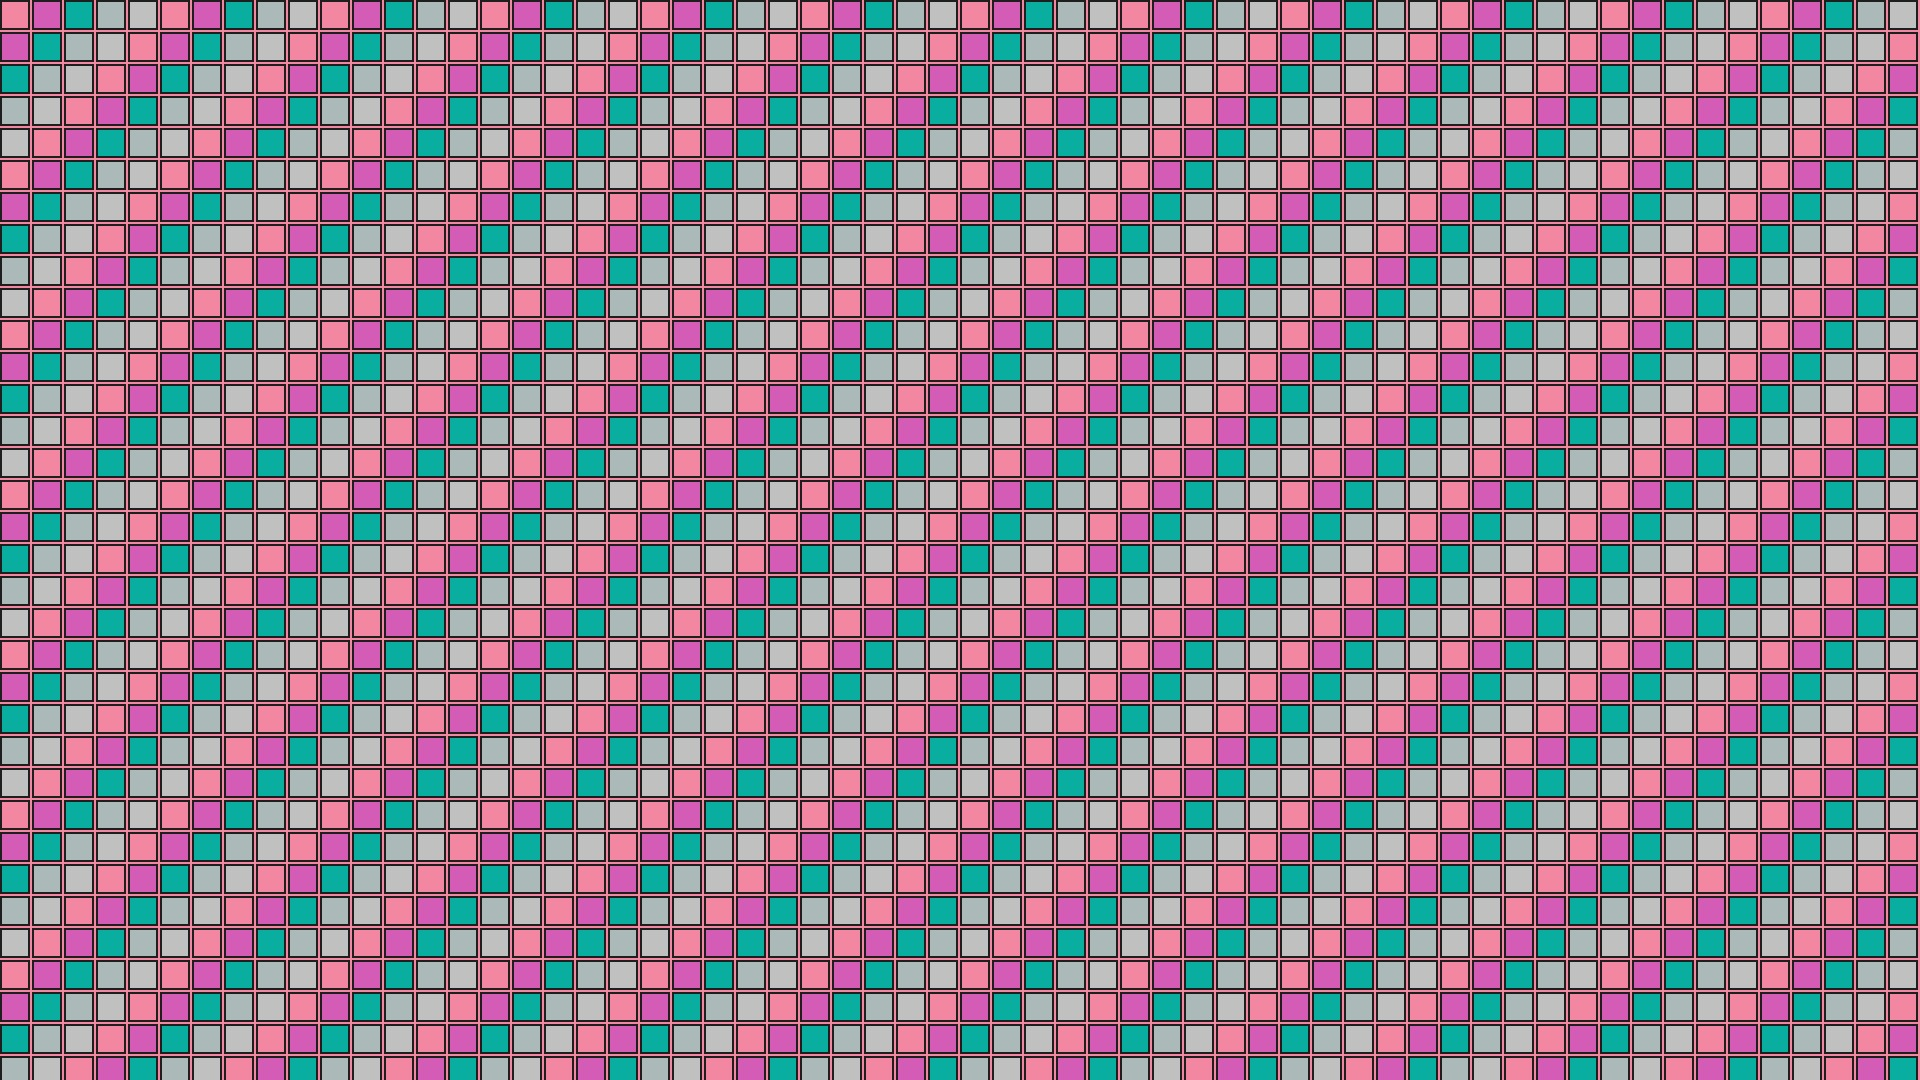
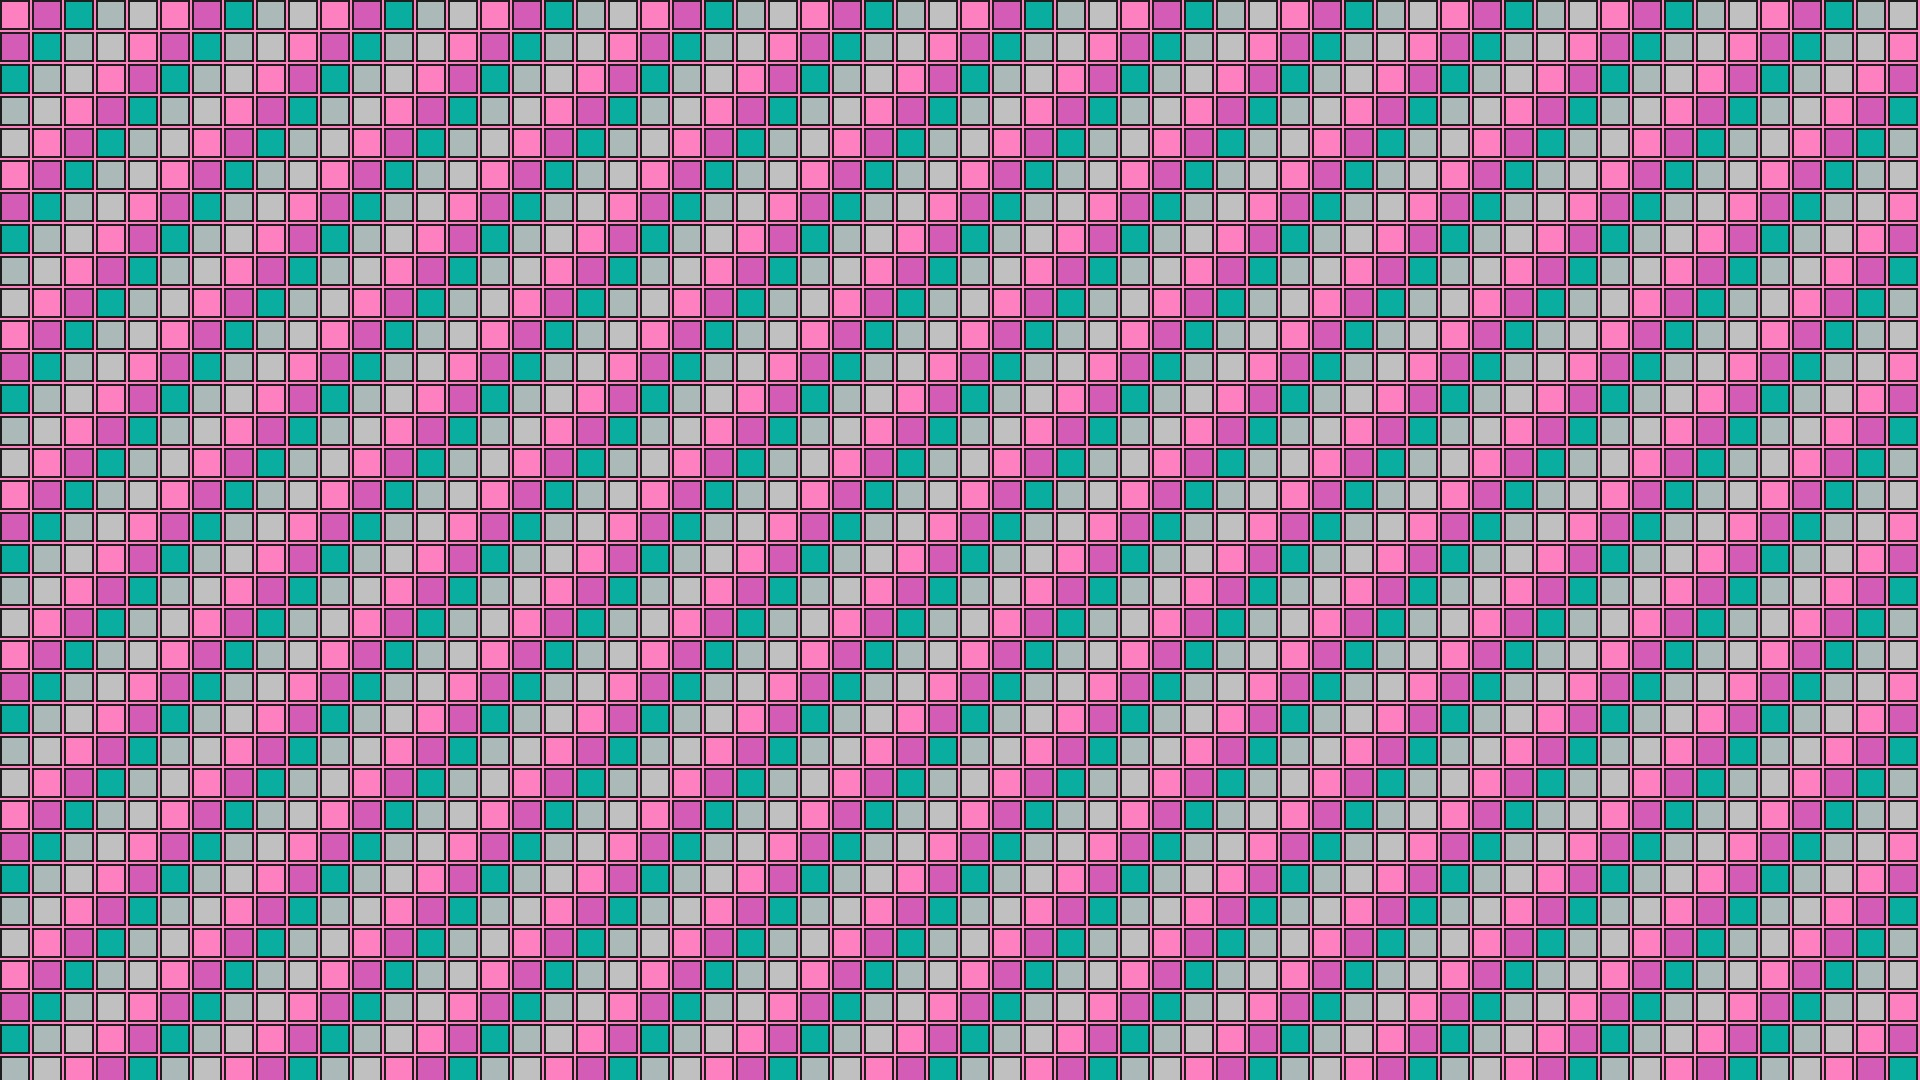
Use Windows 3.1 VGA system pink instead of TypeSafe salmon
Swap #f386a1 for #ff80c0 across the palette, chrome, and wallpapers so the desktop matches the classic 16-color Win31 pink.

diff --git a/gtk.css b/gtk.css
@@ -9,14 +9,14 @@
     @define-color cyan           #09aea1;
     @define-color white          #fefefe;
     @define-color bright_black   #858585;
-    @define-color bright_red     #f386a1;
+    @define-color bright_red     #ff80c0;
     @define-color bright_green   #14c46e;
     @define-color bright_yellow  #e0c04a;
     @define-color bright_blue    #1e1e9a;
     @define-color bright_magenta #e070c4;
     @define-color bright_cyan    #1bc4b6;
     @define-color bright_white   #ffffff;
-    @define-color pink           #f386a1;
+    @define-color pink           #ff80c0;
     @define-color silver         #c0c0c0;
 
     @define-color accent_bg_color @cyan;

diff --git a/vencord.theme.css b/vencord.theme.css
@@ -1,14 +1,14 @@
 :root {
     --color00: #fefefe;
-    --color01: #f5e6ea;
-    --color02: #ebcfd6;
+    --color01: #ffe4f0;
+    --color02: #f5bdd8;
     --color03: #c0c0c0;
     --color04: #858585;
     --color05: #1e1e1e;
     --color06: #1e1e1e;
     --color07: #1e1e1e;
     --color08: #c45c78;
-    --color09: #f386a1;
+    --color09: #ff80c0;
     --color10: #c9a227;
     --color11: #03aa5c;
     --color12: #09aea1;

diff --git a/firefox.css b/firefox.css
@@ -1,14 +1,14 @@
 :root {
   --color00: #fefefe;
-  --color01: #f5e6ea;
-  --color02: #ebcfd6;
+  --color01: #ffe4f0;
+  --color02: #f5bdd8;
   --color03: #c0c0c0;
   --color04: #858585;
   --color05: #1e1e1e;
   --color06: #1e1e1e;
   --color07: #1e1e1e;
   --color08: #c45c78;
-  --color09: #f386a1;
+  --color09: #ff80c0;
   --color0A: #c9a227;
   --color0B: #03aa5c;
   --color0C: #09aea1;

diff --git a/waybar.css b/waybar.css
@@ -1,5 +1,5 @@
 @define-color foreground #1e1e1e;
-@define-color background #f386a1;
+@define-color background #ff80c0;
 @define-color accent #09aea1;
 @define-color accent_orange #d45bb6;
 @define-color accent_green #03aa5c;

diff --git a/scripts/generate-assets.py b/scripts/generate-assets.py
@@ -10,7 +10,7 @@ from PIL import Image, ImageDraw, ImageFont
 ROOT = Path(__file__).resolve().parents[1]
 BG = ROOT / "backgrounds"
 
-PINK = (243, 134, 161)
+PINK = (255, 128, 192)  # Windows 3.1 system pink #ff80c0
 WHITE = (254, 254, 254)
 NEAR_WHITE = (255, 255, 255)
 DARK = (30, 30, 30)
@@ -177,7 +177,7 @@ def win31_window(
 def wallpaper_typesafe_desktop() -> Image.Image:
     img = Image.new("RGB", (W, H), PINK)
     # Subtle VGA-style dither toward a slightly deeper pink.
-    overlay = dither((W, H), PINK, (232, 112, 148), scale=2)
+    overlay = dither((W, H), PINK, (192, 64, 128), scale=2)
     return Image.blend(img, overlay, 0.18)
 
 

diff --git a/README.md b/README.md
@@ -1,6 +1,6 @@
 # Windows 3 — Omarchy theme
 
-A light Omarchy theme that restyles the desktop after [TypeSafe AI](https://typesafe.ai/): pink VGA wallpaper, navy title bars, teal accents, magenta selection, and the hard-edged chrome of Windows 3.1.
+A light Omarchy theme that restyles the desktop after [TypeSafe AI](https://typesafe.ai/) with Windows 3.1 VGA color: system pink wallpaper (`#ff80c0`), navy title bars, teal accents, magenta selection, and hard-edged chrome.
 
 The theme follows the same file layout as community themes such as Black_Arch (`colors.toml`, terminal configs, Waybar, Walker, GTK, Hyprland, Neovim, wallpapers) and adds Omarchy 3 files (`shell.toml`, `hyprland.lua`, `light.mode`).
 
@@ -10,7 +10,7 @@ The theme follows the same file layout as community themes such as Black_Arch (`
 
 | Token | Hex | Role |
 | --- | --- | --- |
-| Pink | `#f386a1` | Desktop, bar, TypeSafe page color |
+| Pink | `#ff80c0` | Desktop, bar — Windows 3.1 system pink |
 | Off-white | `#fefefe` | Window interiors, terminals, editors |
 | Silver | `#c0c0c0` | Dialogs, menus, Win31 face |
 | Navy | `#000080` | Active title bars, keywords |
